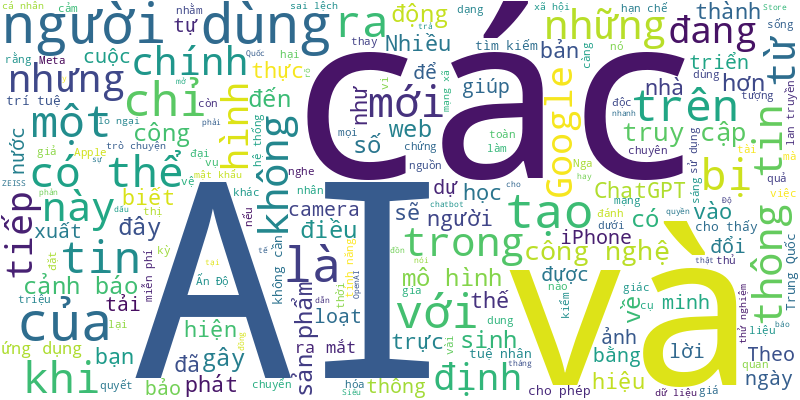
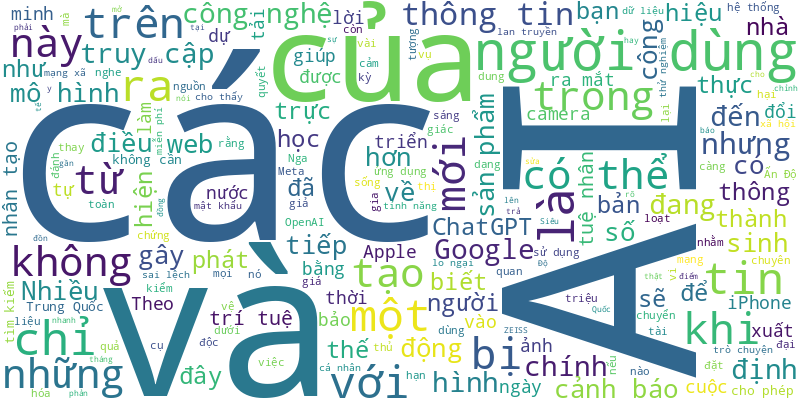
🍀 = 10%

diff --git a/README.md b/README.md
@@ -1,6 +1,16 @@
 # Tuoi Tre RSS 
 
 ## Giáo dục 
+- Do ảnh hưởng của bão số 5, mưa lớn kéo dài, ngày 26-8 tại bản Táo, xã vùng cao Trung Lý, tỉnh Thanh Hóa xuất hiện điểm sạt lở lớn từ trên đồi núi, kéo theo hàng trăm mét khối đất đá đổ xuống cạnh trường học.
+- Bộ Giáo dục và Đào tạo cho biết từ tối ngày 23-8 đến nay, mỗi ngày bộ phận phụ trách tuyển sinh của bộ nhận được và chuyển các trường xử lý khoảng 20 đến 30 phản ánh của thí sinh qua tất cả các kênh về những sai sót.
+- Dù phổ điểm thi tốt nghiệp THPT nhiều môn giảm, nhưng mùa xét tuyển đại học năm nay ghi nhận những câu chuyện điểm chuẩn vượt xa điểm thi, 'mưa' điểm tuyệt đối, khiến thí sinh đạt 30/30 điểm vẫn có thể trượt nguyện vọng.
+- Nhiều phụ huynh bày tỏ vui mừng khi Trường tiểu học Lý Tự Trọng (xã Ea Đrăng, tỉnh Đắk Lắk) thông báo dừng triển khai việc mặc ba kiểu đồng phục mỗi tuần.
+- Ở Hà Tĩnh, sau bão số 5, nhiều ngôi trường ngổn ngang đổ nát khiến thầy trò nơi đây lo lắng vì năm học mới đã sắp tới gần.
+- 'Lịch sử Việt Nam có nhiều khía cạnh rất đặc biệt, nhiều câu chuyện ít được biết đến nhưng chứa đựng những bài học lớn về tinh thần độc lập, sự kiên cường... và tôi muốn lan tỏa điều đó ra thế giới'.
+- Trường đại học Y khoa Phạm Ngọc Thạch - cơ sở 2 nằm tại khu 'campus y tế' đầu tiên của Việt Nam đã chính thức đưa vào hoạt động.
+- Trường đại học Ngân hàng TP.HCM vừa có thông báo mới về xét tuyển ngành luật và luật kinh tế theo hướng có lợi cho thí sinh.
+- Kỳ tuyển sinh đại học năm nay có quá nhiều sai sót khiến hàng loạt thí sinh từ đậu thành rớt.
+- Theo quy định, từ tháng 9, các trường đại học xét tuyển bổ sung. Tuy nhiên hiện nay nhiều trường đã nhận hồ sơ xét tuyển, thậm chí kết thúc trước 31-8.
 - Nhiều trường học tại Hà Nội đã thông báo cho học sinh ngừng đến trường, sinh viên chuyển sang học trực tuyến.
 - Những ngày đầu của nước Việt Nam độc lập 80 năm trước, giữa bộn bề khó khăn, Chủ tịch Hồ Chí Minh và Chính phủ đã nhìn ra đường dài cho dân tộc cần làm ngay: diệt giặc dốt.
 - Nhiều bạn đọc tiếp tục tranh luận và đề xuất các giải pháp cho chuyện '29 điểm vẫn rớt đại học mong muốn'.
@@ -41,71 +51,62 @@
 - Điểm chuẩn năm nay phá vỡ kỷ lục các năm, nhất là so với năm 2024. Hàng loạt ngành thí sinh đạt gần 10 điểm mỗi môn vẫn rớt.
 - Ngày 23-8, các trường Công an nhân dân đã đồng loạt công bố điểm chuẩn trúng tuyển ở các phương thức xét kết hợp với bài thi đánh giá của Bộ Công an năm 2025, ghi nhận mức điểm chuẩn cao nhất 26,28 điểm.
 - Thí sinh nữ vùng 2 và 3 cần đạt từ hơn 26 điểm mới trúng tuyển ngành nghiệp vụ an ninh của Học viện An ninh nhân dân.
-- Năm 2025, Học viện Chính trị Công an nhân dân xét tuyển 100 học viên, nhưng có tới gần 8.000 thí sinh đăng ký thi đánh giá của Bộ Công an xét tuyển vào học viện.
-- Thí sinh nữ vùng 4 phải đạt tối thiểu 26,05 điểm mới trúng tuyển Trường đại học An ninh nhân dân năm 2025.
-- Thí sinh vùng 2 có mức điểm trúng tuyển vào Học viện Cảnh sát nhân dân cao nhất năm 2025, với nam là 23,71 điểm, nữ là 26,01 điểm.
-- Năm học 2025-2026, thành phố Hà Nội ước tính có 2.954 trường mầm non và phổ thông, tăng 43 trường so với năm học 2024-2025.
-- Trường đại học Phòng cháy chữa cháy vừa công bố điểm chuẩn trúng tuyển, dao động từ 19,75 đến 24,23, tùy theo khu vực.
-- Theo thông báo của Trường đại học Y Dược Cần Thơ, điểm chuẩn hầu hết các ngành học của trường năm 2025 đều giảm so với năm trước.
-- Điểm chuẩn trúng tuyển trong năm 2025 của Trường đại học Sư phạm TP.HCM có xu hướng giữ nguyên hoặc tăng nhẹ so với năm 2024.
-- Điểm chuẩn 2025 của Học viện Bưu chính viễn thông cao nhất là 26,21 với ngành khoa học máy tính.
-- Các trường cao đẳng 'hot' như Cao đẳng Kỹ thuật Cao Thắng, Cao đẳng Kinh tế đối ngoại, Cao đẳng Kinh tế TP.HCM... đã công bố điểm chuẩn trúng tuyển xét theo điểm thi tốt nghiệp THPT.
-- Nhiều ngành của Trường đại học Khoa học tự nhiên (Đại học Quốc gia TP.HCM) lấy điểm chuẩn trên 24, riêng ngành khoa học máy tính lấy gần 30 điểm.
 ![Edu](Edu.png)
 ## Thời Sự 
-- Do ảnh hưởng của bão Kajiki, đêm qua đến sáng nay 26-8, Hà Nội có mưa vừa, mưa to, có nơi mưa rất to khiến nhiều tuyến đường ngập sâu.
-- Đêm 25-8, lực lượng Phòng cảnh sát phòng cháy, chữa cháy và cứu nạn, cứu hộ Công an tỉnh Thanh Hóa đã giải cứu 3 người trong một gia đình sinh sống cạnh suối Chuỗi, xã Sao Vàng bị nước lũ cô lập trong nhà.
-- Trận lốc xoáy trong vòng 2 phút ở Hà Nam cũ (nay là Ninh Bình) tối qua khiến hơn 200 nhà dân bị thiệt hại, trong đó có nhà dân bị đổ sập khiến một người tử vong.
-- Trước nguy cơ bị nước lũ dâng cao chia cắt, chính quyền xã Mường Típ, Nghệ An đã huy động lực lượng di dời khẩn cấp 85 người dân tới nơi an toàn ngay trong đêm.
-- Tin tức đáng chú ý: Thế Giới Di Động chi 200 tỉ đồng mua trọn lô trái phiếu một công ty chứng khoán; Đề xuất tăng 100% lương tập huấn, thi đấu cho huấn luyện viên, vận động viên...
-- Sau khoảng 12 giờ đi vào đất liền Nghệ An - Hà Tĩnh, sáng sớm 26-8, bão số 5 (Kajiki) suy yếu thành áp thấp nhiệt đới và tiếp tục gây mưa lớn cho khu vực Bắc Trung Bộ, Bắc Bộ hôm nay.
-- Dù đã suy yếu nhưng hoàn lưu bão số 5 vẫn gây mưa to cho thời tiết nước ta, đặc biệt là các tỉnh thành phía Bắc.
-- Lốc xoáy lớn đêm 25-8 kéo dài 2 phút, gây thiệt hại nặng cho hàng trăm hộ dân ở phường Lý Thường Kiệt, Kim Bảng, Ninh Bình.
-- Nhiều lãnh đạo cấp sở của tỉnh Lâm Đồng có đơn đề xuất xin thôi việc theo Nghị định 178.
-- Chiều 25-8, Thủ tướng Phạm Minh Chính gặp mặt, tri ân Ban Liên lạc công an chi viện chiến trường miền Nam.
-- Tối 25-8, Bộ Quốc phòng duy trì 346.210 quân, 8.200 phương tiện, gồm 5 máy bay, sẵn sàng ứng phó và khắc phục bão số 5.
-- Trung tâm Quản lý giao thông công cộng TP.HCM thông báo khôi phục, điều chỉnh nhiều tuyến xe buýt phục vụ học sinh, sinh viên.
-- Ngày 25-8, tài xế taxi lạng lách, ép xe tại chân cầu Bình Triệu (phường Hiệp Bình, TP.HCM) bị CSGT mời làm việc và lập biên bản.
-- Đến 0h sáng 26-8, tâm bão số 5 vẫn trên đất liền phía tây khu vực nam Nghệ An - bắc Hà Tĩnh.
-- Ông Lê Văn Thành, ủy viên Ủy ban Kiểm tra Trung ương, được Bộ Chính trị chuẩn y chức danh phó chủ nhiệm Ủy ban Kiểm tra Trung ương.
-- Chủ tịch nước chủ trì làm việc giữa Bộ Chính trị và Ban Thường vụ Tỉnh ủy Điện Biên, Gia Lai góp ý văn kiện, nhân sự đại hội đảng bộ.
-- Trước khi bàn giao cho Đội Công binh 4, Đội Công binh 3 Việt Nam hoàn thành kiểm tra COE của UNISFA, khẳng định chuyên nghiệp và trách nhiệm quốc tế.
-- Tổng Bí thư chủ trì làm việc giữa Bộ Chính trị và Quân ủy Trung ương, góp ý dự thảo văn kiện, nhân sự Đại hội Đảng bộ Quân đội.
-- Đến chiều 25-8, số tiền nhà hảo tâm đóng góp trực tiếp cho ông Ba M., người cưu mang 'vợ nhặt,' khoảng 100 triệu đồng.
-- Thường trực Ban Bí thư Trần Cẩm Tú đã trao quyết định của Bộ Chính trị về điều động, phân công, bổ nhiệm ông Nguyễn Thanh Nghị làm trưởng Ban Chính sách, Chiến lược Trung ương.
-- Thành phố Huế đã hoàn thành mục tiêu xóa nhà tạm, nhà dột nát trên địa bàn với hàng ngàn ngôi nhà được xây mới và sửa chữa.
-- Gác chắn đường ngang đã hạ, đèn đỏ sáng, tín hiệu chuông reo lớn nhưng hai người đi xe máy vẫn chạy tốc độ cao, hất tung dàn chắn ngã xuống đường ray.
-- Trong quá trình đi hỗ trợ bà con chống bão, cán bộ Công an phường Vũng Áng, Hà Tĩnh nhận được yêu cầu giúp đỡ sản phụ đi sinh.
-- Đoạn clip một nhóm cán bộ xã Nhôn Mai, tỉnh Nghệ An lội qua suối chảy cuồn cuộn đưa lần lượt hơn 120 người dân ở bản Phá Mựt vượt suối di dời đến nơi an toàn khiến cộng đồng mạng xúc động và cảm phục.
-- Khi vào gần bờ, bão số 5 (Kajiki) gặp ma sát với địa hình khiến cường độ bão suy giảm hai cấp, từ cấp 14 (150-166km/h) xuống cấp 12 (118-133km/h).
-- Công an tỉnh Đồng Tháp cho biết đang điều tra nguyên nhân cái chết của người đàn ông nằm úp mặt dưới kênh nước công cộng.
-- Ngày 25-8, Bộ Nội vụ tổ chức hội thảo quốc gia chuẩn bị cho Diễn đàn Lao động di cư ASEAN (AFML) lần thứ 18.
-- Đến nay đặc khu Phú Quốc đã dựng hàng rào tôn, san ủi mặt bằng được hơn 161ha để làm đường băng số 2 và công trình phụ trợ mở rộng sân bay Phú Quốc đón APEC 2027.
-- Trong 5 năm qua, ngành giáo dục Đắk Lắk ghi nhận có hơn 6.200 sáng kiến với hơn 1.000 giáo viên là giáo viên dạy giỏi, điển hình tiên tiến.
-- Ban Tổ chức Trung ương đã có định hướng về số lượng cấp phó của cơ quan, tổ chức Trung ương, HĐND, UBND tỉnh, thành.
-- Ban Chỉ đạo của Chính phủ yêu cầu xử lý nghiêm các trường hợp, hành vi trục lợi, vi phạm trong xem xét, giải quyết chính sách, chế độ theo nghị định 178.
-- Ảnh hưởng bởi cơn bão số 5 (Kajiki) gây mưa lớn, gió mạnh ở tỉnh Đắk Lắk những ngày qua khiến nhiều nông dân trồng sầu riêng thấp thỏm lo thiệt hại trong mùa thu hoạch chính vụ.
-- Phát biểu tại lễ kỷ niệm ngày 25-8, Tổng Bí thư Tô Lâm khẳng định sau 80 năm, Ngoại giao Việt Nam đã đạt được nhiều thành tựu, góp phần viết nên bản anh hùng ca vĩ đại của dân tộc.
-- Sở Nông nghiệp và Môi trường TP.HCM vừa có văn bản gửi Sở Tài chính góp ý hồ sơ đề nghị thực hiện dự án đường sắt đô thị nối trung tâm TP.HCM - Cần Giờ của Công ty VinSpeed.
-- Thăm hỏi người dân tránh bão số 5 ở Nghệ An, Phó thủ tướng Trần Hồng Hà động viên người dân yên tâm sinh hoạt tại điểm sơ tán, sau khi bão tan mới về nhà.
-- Tâm bão số 5 đang ở trên đất liền khu vực Hà Tĩnh. Sức gió mạnh nhất cấp 11 (103 - 117km/h), giật cấp 13.
-- Với những công lao to lớn trong lĩnh vực đối ngoại, bà Nguyễn Thị Bình đã được Tổng Bí thư Tô Lâm thay mặt lãnh đạo Đảng và Nhà nước trao tặng danh hiệu Anh hùng Lao động.
-- Thủ tướng Phạm Minh Chính đánh giá trong những năm gần đây, thực hiện đột phá chiến lược về xây dựng, hoàn thiện thể chế, Bộ Tư pháp tiếp tục thể hiện rõ vai trò "kiến tạo phát triển", "người gác cổng pháp lý" của Chính phủ.
-- 'Tặng đồ lót như một lời nhắc nhở các em biết bảo vệ và thêm trân trọng bản thân' - Bùi Thị May chia sẻ về hành trình may đồ lót tặng trẻ vùng cao.
-- Một tài xế xe tải ở xã Ia Phí (Gia Lai) vừa qua dốc túi bồi thường 305 triệu đồng cho 2 hộ nuôi bò vì xe mất thắng tông chết 17 con bò đang lùa đi trên đường liên xã.
-- Cơ quan bảo hiểm xã hội cho biết lịch chi trả lương hưu tháng 9-2025 sẽ thay đổi do trùng với dịp nghỉ lễ Quốc khánh 2-9.
-- Qua làm việc với cơ quan công an, tài xế ô tô lao lên vỉa hè tông hàng loạt xe máy, hất tung người đi đường ở Đà Lạt khai do buồn ngủ.
-- Vị trí đầu tiên của Khu thương mại tự do Đà Nẵng sẽ được “bấm nút” khởi động vào ngày 27-8.
-- Có một gói thầu ở nút giao An Phú bình quân mỗi tháng nhà thầu chỉ thi công được khoảng 618 triệu đồng, tương đương giá trị một cọc khoan nhồi (móng cọc bê tông cốt thép) loại nhỏ.
-- Ngành điện bật chế độ ứng phó khẩn cấp, ứng trực 24/24h và đưa ra loạt khuyến cáo người dân đảm bảo an toàn điện trong mưa bão.
-- Đó là một trong nhiều tiêu chí được UBND tỉnh Đồng Nai yêu cầu chính quyền 95 phường, xã xây dựng mô hình “Chính quyền thân thiện” để phục vụ người dân.
-- Đầu giờ chiều, gió bão đã giật mạnh kèm mưa lớn ở nhiều xã ven biển Quỳnh Phú, Quỳnh Anh, Quỳnh Mai, cách trung tâm tỉnh Nghệ An khoảng 70 - 80km.
-- Xe khách mất lái 'lùa' hàng loạt xe máy, xe đạp điện đang dừng chờ đèn đỏ trên quốc lộ 14, tỉnh Đồng Nai.
-- Sáng nay 25-8, học sinh các khối lớp 2, 3, 4, 5, 6, 7, 8, 10, 11 ở TP.HCM tựu trường, chuẩn bị bước vào năm học mới 2025 - 2026 (các khối 1, 9, 12 đã tựu trường trước đó).
-- Ông Dương Anh Đức - ủy viên Ban Thường vụ, phó trưởng ban thường trực Ban Tuyên giáo và Dân vận Thành ủy TP.HCM - được bổ nhiệm làm Trưởng Ban Tuyên giáo và Dân vận Thành ủy TP.HCM.
+- Nhiều người dân ở thôn Phụng Tường 1, xã Phú Hòa 2 (Đắk Lắk) tá hỏa khi phát hiện khu vực phía sau Trường THCS Lương Văn Chánh xuất hiện đám cháy, ngọn lửa bốc cao kèm nhiều tiếng nổ lớn, trong khi năm học mới sắp cận kề.
+- Một số tin tức đáng chú ý: VietinBank rao bán món nợ khủng, tài sản cầm cố là khách sạn Mỹ Khê Đức Long; HoSE cảnh báo khẩn về các tài liệu giả mạo; Chợ Rẫy hướng tới bệnh viện không giấy...
+- Hôm nay 27-8, mưa vẫn xảy ra ở nhiều tỉnh thành cả nước, mưa dai dẳng khiến độ ẩm đất bão hòa, nguy cơ sạt lở rất cao.
+- Dự báo trong đêm nay đến sáng mai, lũ trên sông Thao (sông Hồng, đoạn qua Yên Bái, tỉnh Lào Cai) và sông Mã tiếp tục lên nhanh và sẽ vượt mức báo động 3. Nguy cơ ngập lụt vùng trũng, thấp ven sông.
+- Thủ tướng Phạm Minh Chính đã ký tặng biển kỷ niệm sản xuất chiếc điện thoại di động thứ 2 tỉ của Samsung tại Việt Nam.
+- Tối 26-8, lực lượng chức năng vẫn đang phong tỏa hiện trường vụ nghi cướp tiệm vàng, đồ trang sức xảy ra trên đường Núi Thành (phường Hòa Cường, Đà Nẵng).
+- Bí thư Thành ủy TP.HCM Trần Lưu Quang cùng đoàn đại biểu Thành ủy, HĐND, UBND, Ủy ban Mặt trận Tổ quốc Việt Nam TP.HCM đã dâng hương tưởng nhớ các Anh hùng liệt sĩ tại đặc khu Côn Đảo.
+- Phó thủ tướng Trần Hồng Hà yêu cầu hai bộ báo cáo rõ với Thủ tướng về sự cần thiết, tính khả thi hiện nay trong việc yêu cầu bắt buộc ban hành bộ tiêu chuẩn, quy chuẩn của Việt Nam về đường sắt tốc độ cao.
+- Phó chủ tịch UBND TP.HCM Bùi Minh Thạnh làm trưởng đoàn công tác khảo sát tình hình tổ chức và hoạt động của phường Tân Tạo, trong quá trình vận hành mô hình chính quyền địa phương 2 cấp.
+- Do ảnh hưởng bão số 5 (Kajiki), An Giang có mưa dông làm sạt lở đường, sập và tốc mái 4 căn nhà, đặc biệt một ngư dân ở đặc khu Phú Quốc đi câu mực bị mất tích.
+- Một người đàn ông tại Quảng Trị đã bất ngờ ngất xỉu và tử vong, khi đang tập luyện để chuẩn bị cho giải đua thuyền trên sông Kiến Giang sắp tới.
+- Nhiều vướng mắc về đất đai, thuế được doanh nghiệp nói ra trong buổi đối thoại. Ông Nguyễn Hoàng Giang, chủ tịch UBND tỉnh Quảng Ngãi, 'truy' từng vấn đề và nói 'vì chậm trao đổi, tháo gỡ dẫn đến vướng mắc'.
+- Hội thảo "Kết nối năng lượng thông minh, dẫn lối tương lai xanh" mở ra cơ hội cho ngành công nghiệp Việt Nam bứt phá thông qua các mô hình phát triển bền vững, tiết kiệm năng lượng, giảm phát thải và hướng đến mục tiêu Net Zero vào năm 2050.
+- Bão số 5 vừa tan, hoàn lưu còn gây mưa dữ dội cho Bắc Bộ thì trên Thái Bình Dương lại có áp thấp mới, dự báo lại vào Biển Đông và mạnh lên.
+- Doanh nghiệp được Ngân hàng Nhà nước xem xét cấp giấy phép sản xuất vàng miếng phải có vốn điều lệ từ 1.000 tỉ đồng, còn ngân hàng phải vốn điều lệ từ 50.000 tỉ đồng trở lên.
+- Sở Xây dựng TP.HCM vừa có văn bản gửi 168 phường, xã, đặc khu hướng dẫn rà soát để lên phương án đánh số, điều chỉnh số nhà, tên đường cho thống nhất.
+- Nhiều tấm tôn bay lên trời trước sự ngỡ ngàng của nhiều người dân, trong trận lốc xoáy kinh hoàng hiếm gặp ở thủ phủ công nghiệp Bắc Ninh.
+- Thời gian tổ chức cấm đường, phân luồng giao thông, phục vụ chương trình sơ duyệt bắt đầu từ 12h ngày 27-8 đến 2h ngày 28-8. So với thông báo trước đó, thời gian cấm đường sẽ sớm hơn 5 tiếng.
+- Chủ tịch UBND TP.HCM chỉ đạo Sở Tài chính, Sở Nông nghiệp và Môi trường và đơn vị liên quan thực hiện dự án xây dựng bảng giá đất lần đầu (mới) áp dụng từ 1-1-2026.
+- Với quan điểm "Không để ai bị bỏ lại phía sau, kể cả nơi xa nhất", ngành y tế TP.HCM đã sẵn sàng cử các bác sĩ giỏi bệnh viện đầu ngành luân phiên đến công tác tại đặc khu Côn Đảo.
+- Hơn 10 ngày nay, mạng xã hội lan truyền câu chuyện người đàn ông bán vé số ở khu vực Cù Lao Tây, xã Tân Long, tỉnh Đồng Tháp và 'vợ nhặt' 11 năm thu hút sự quan tâm của dư luận, người dân xóm Cù Lao Tây ngỡ ngàng.
+- Bão số 5 không chỉ tàn phá nhà cửa, hạ tầng mà còn làm hàng trăm tấn thóc tại kho Chương Hà (xã Cổ Đạm, Hà Tĩnh) bị ngập nước. Nhìn tài sản chìm trong dòng nước đục, chủ kho thóc chỉ biết lặng người xót xa.
+- Khoảng 16h45 chiều 26-8, cơ quan chức năng bắt đầu cấm ô tô qua cầu Bình Triệu 1 để thi công nâng tĩnh không cầu này.
+- Với mục tiêu 50% hộ gia đình lắp đặt điện mặt trời áp mái, dự kiến số tiền hỗ trợ trực tiếp có thể lên đến khoảng 42.000 tỉ đồng.
+- Mua, bán vàng có giá trị từ 20 triệu đồng trong ngày trở lên của một khách hàng phải được thực hiện thông qua tài khoản thanh toán của khách hàng và tài khoản thanh toán của doanh nghiệp kinh doanh vàng.
+- VietinBank cùng một số doanh nghiệp khác trên sàn chứng khoán mới nhận quyết định xử phạt hành chính do vi phạm thuế. Trong đó VietinBank phải nộp bổ sung hơn 87,4 tỉ đồng.
+- Tập đoàn THACO đã nghiên cứu, hoàn thiện hồ sơ đề xuất thực hiện dự án đầu tư xây dựng bến cảng Cái Mép Hạ.
+- Chiều 26-8 Ban Chỉ đạo Trung ương kỷ niệm các ngày lễ lớn và sự kiện lịch sử quan trọng của đất nước trong 3 năm (2023-2025) đã khai trương Trung tâm Báo chí Lễ kỷ niệm 80 năm Ngày Quốc khánh nước Cộng hòa xã hội chủ nghĩa Việt Nam.
+- Giám đốc Sở Nông nghiệp và Môi trường TP.HCM vừa ký quyết định phân công lĩnh vực quản lý cụ thể cho ban giám đốc sở này.
+- Bộ Nông nghiệp và Môi trường đề xuất kiểm định khí thải xe máy tham gia giao thông ở Hà Nội, TP.HCM từ ngày 1-7-2027.
+- Ngồi du thuyền ngắm pháo hoa, thưởng thức bánh dân gian, ăn trái cây tại vườn… là những hoạt động hấp dẫn khi du lịch đến Cần Thơ dịp lễ 2-9.
+- Nghề dệt vải thổ cẩm của người Chăm ở xã Châu Phong, tỉnh An Giang hiện 'đổi đời' và làm ra nhiều sản phẩm như túi xách, nón hay trang phục truyền thống, chinh phục du khách trong và ngoài nước.
+- Tại công trình cải tạo cảnh quan vỉa hè bờ sông dọc tuyến đường Thăng Long từ công viên châu Á đến giáp quận Cẩm Lệ (cũ), có cây xanh bật gốc.
+- PGS.TS Nguyễn Mạnh Hùng được Ban Bí thư bổ nhiệm giữ chức phó giám đốc Học viện Chính trị quốc gia Hồ Chí Minh, phó chủ tịch Hội đồng Lý luận Trung ương.
+- Một thanh niên ở Quảng Trị bị bắn tử vong, sau khi dừng xe hỏi chuyện nhóm người lạ đứng bên quốc lộ 9.
+- UBND tỉnh Vĩnh Long vừa quyết định công bố tình huống khẩn cấp sự cố sạt lở tuyến đê bao Bắc rạch Trà Cú chiều dài 100m, với mức độ sạt lở nguy hiểm.
+- Do ảnh hưởng của bão số 5, tại khu vực bắc Quảng Trị xuất hiện mưa lớn khiến nhiều cánh đồng lúa đang vào vụ thu hoạch bị ngập sâu, ngã rạp trong nước.
+- Niềm cảm hứng tự hào, xúc động trào dâng trong những ngày hướng tới kỷ niệm 80 năm Cách mạng Tháng Tám và Quốc khánh 2-9.
+- Các dự án liên danh quan tâm gồm: metro số 2 (Bến Thành - Tham Lương), đường sắt Thủ Thiêm - sân bay Long Thành, metro số 1 (TP mới Bình Dương - Suối Tiên)...
+- Lực lượng cảnh sát phòng cháy, chữa cháy và cứu nạn, cứu hộ đã đưa thi thể 2 công nhân nạo vét cống từ dưới cống lên, bàn giao cho lực lượng chức năng.
+- Đó là những đề xuất được các đơn vị, chuyên gia đưa ra tại hội nghị phản biện do Ủy ban Mặt trận Tổ quốc Việt Nam TP.HCM tổ chức sáng 26-8.
+- Trong số 31 chung cư cũ TP.HCM dự kiến cải tạo trong năm 2025, 12 dự án đã có quy hoạch 1/500, phần còn lại đang tháo gỡ vướng mắc.
+- Năm 2025, người cao tuổi (từ 60 tuổi trở lên) tại TP.HCM được thăm khám sức khỏe miễn phí nhằm 'đánh chặn' bệnh tật từ xa.
+- Tính đến 7h ngày 26-8, bão số 5 đã làm 3 người chết (Nghệ An 1 người, Hà Tĩnh 1 người, Ninh Bình 1 người).
+- Công an xã vùng cao Mường Chanh, tỉnh Thanh Hóa vượt mưa lũ, phối hợp cùng nhân viên y tế, người dân đưa sản phụ trú tại bản Lách đến bệnh viện sinh con.
+- Xin cảm ơn bức ảnh xuất thần của báo Tuổi Trẻ, làm tôi cứ nhìn ngẩn ngơ suốt một buổi chiều.
+- Hệ thống thoát nước quá tải là nguyên nhân dẫn tới loạt tuyến phố ở Hà Nội ngập sâu trong nước vào sáng 26-8.
+- Để cắt lũ cho vùng hạ du và đảm bảo an toàn hồ đập, nhiều hồ chứa thủy điện khu vực Bắc Trung Bộ đang xả nước sau cơn bão số 5 (bão Kajiki).
+- Trường đại học Y khoa Phạm Ngọc Thạch - cơ sở 2 nằm tại khu 'campus y tế' đầu tiên của Việt Nam đã chính thức đưa vào hoạt động.
+- Sáng 26-8, phường Dĩ An (TP.HCM) đã phối hợp với các đơn vị phát động chiến dịch phòng bệnh sốt xuất huyết và bệnh Chikungunya trên địa bàn.
 ![New](News.png)
 ## Nhịp sống số 
-- Đơn kiện cáo buộc Apple hạn chế quyền tiếp cận vị trí dẫn đầu trên App Store với các ứng dụng chatbot AI cạnh tranh khác.
+- Nhiều tin đồn xoay quanh iPhone 17, Apple Watch và AirPods rộ lên khi gần đến thời điểm ra mắt các sản phẩm mới của Apple.
+- Đơn kiện cáo buộc Apple và OpenAI 'thông đồng' để làm giảm sức cạnh tranh trong lĩnh vực trí tuệ nhân tạo (AI).
 - Nhiều người dùng tin rằng chatbot AI thông minh hơn khi trả lời bằng tiếng Anh. Nhưng liệu đây có phải là sự thật, hay chỉ là tin đồn nảy sinh từ thói quen sử dụng công nghệ?
 - vivo V60 5G sẽ ra mắt vào ngày 26-8-2025 với Hệ thống camera chính ZEISS, Camera Siêu Tele Chân Dung ZEISS và loạt ưu đãi hấp dẫn khi đặt trước lên đến sáu triệu đồng
 - Không chỉ nghe, nhìn, nói, AI giờ đây còn có thể “ngửi mùi”. Công nghệ khứu giác số mở ra ứng dụng từ y tế hơi thở, kiểm định thực phẩm, đến tạo ra những hương nước hoa độc bản chỉ trong vài cú nhấp chuột.
@@ -154,5 +155,4 @@
 - Chuyên gia an ninh mạng cảnh báo làn sóng ứng dụng độc hại trên Android, đe dọa thông tin cá nhân và tài chính của người dùng.
 - Tội phạm mạng dùng mã QR trong chiêu lừa "quishing" để dụ người dùng truy cập web độc hại, đánh cắp thông tin cá nhân.
 - Các nghiên cứu mới cảnh báo ngành công nghiệp trí tuệ nhân tạo (AI): các mô hình AI không chỉ học điều con người dạy, mà còn có thể tự truyền cho nhau hành vi lệch chuẩn qua những 'tín hiệu ngầm' mà chính con người không biết.
-- Trong khi chờ đợi iPhone 17 chính thức ra mắt, loạt tin đồn gần đây cho thấy Apple có thể trình làng thêm 8 sản phẩm mới vào cuối năm nay.
 ![life](Life.png)
